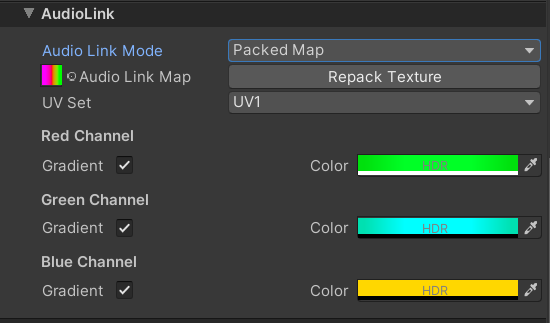
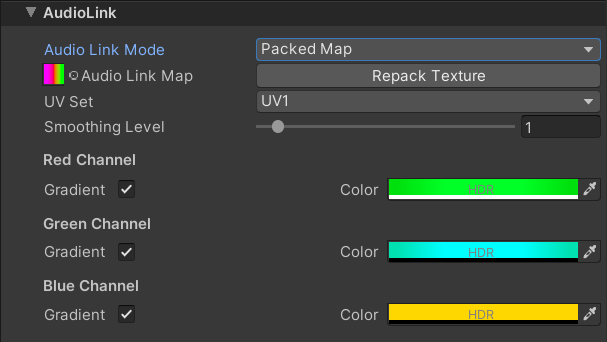
updated docs with the new audio link smoothing options

diff --git a/docs/orl-standard/audio-link.md b/docs/orl-standard/audio-link.md
@@ -128,6 +128,7 @@ A "volume level" bar effect for the selected frequency band
 </p>
 
 - Frequency Band: Controls which frequency band to sample. Options are: Bass (1), Low Mid (2), High Mid (3) and High (4)
+- Smoothing: Controls the amount of smoothing to be applied to AudioLink data. Can help eliminate some of the "jitter" in the effect
 - Bar UV Axis: Specifies which axis to use for the bar direction. Options are: X/Y/Negative X/Negative Y
 - Bar Gradient: Specifies a gradient used for the bar, allows for creating a volume meter effect with the higher levels being colored in a different way
 - Bar Scale: Controls the intensity of the bar movement
@@ -149,6 +150,7 @@ Pulses the whole object with a color. Has an additional option to scroll a textu
 </p>
 
 - Frequency Band: Controls which frequency band to sample. Options are: Bass (1), Low Mid (2), High Mid (3) and High (4)
+- Smoothing: Only visible when **Pulse Mode** is set to **Emission**. Controls the amount of smoothing to be applied to AudioLink data. Can help eliminate some of the "jitter" in the effect
 - Pulse Mode: Specifies one of the two effect modes
   - Emission: Lights up the object based on the current intensity of the selected **Frequency Band**
   - Texture: Adds a texture scrolling effect to the Emission pulse

diff --git a/docs/toon.md b/docs/toon.md
@@ -195,6 +195,7 @@ Packed map is a more advanced mode of AudioLink effect, which allows you to puls
   - Green Channel: Will pulse based on the intensity of Mid and High Mid frequency bands
   - Blue Channel: Will pulse based on the intensity of High Frequency band
 - UV Set: Controls the UV channel used when sampling the **AudioLink Map**
+- Smoothing Level: Controls the amount of smoothness to add to the Audio Link data. Helps to reduce the "jerkiness" of the effect
 - Red Channel
   - Gradient: Enables VU Meter effect for the elements colored Red in the **AudioLink Map**
   - Color: Controls the color of the effect
